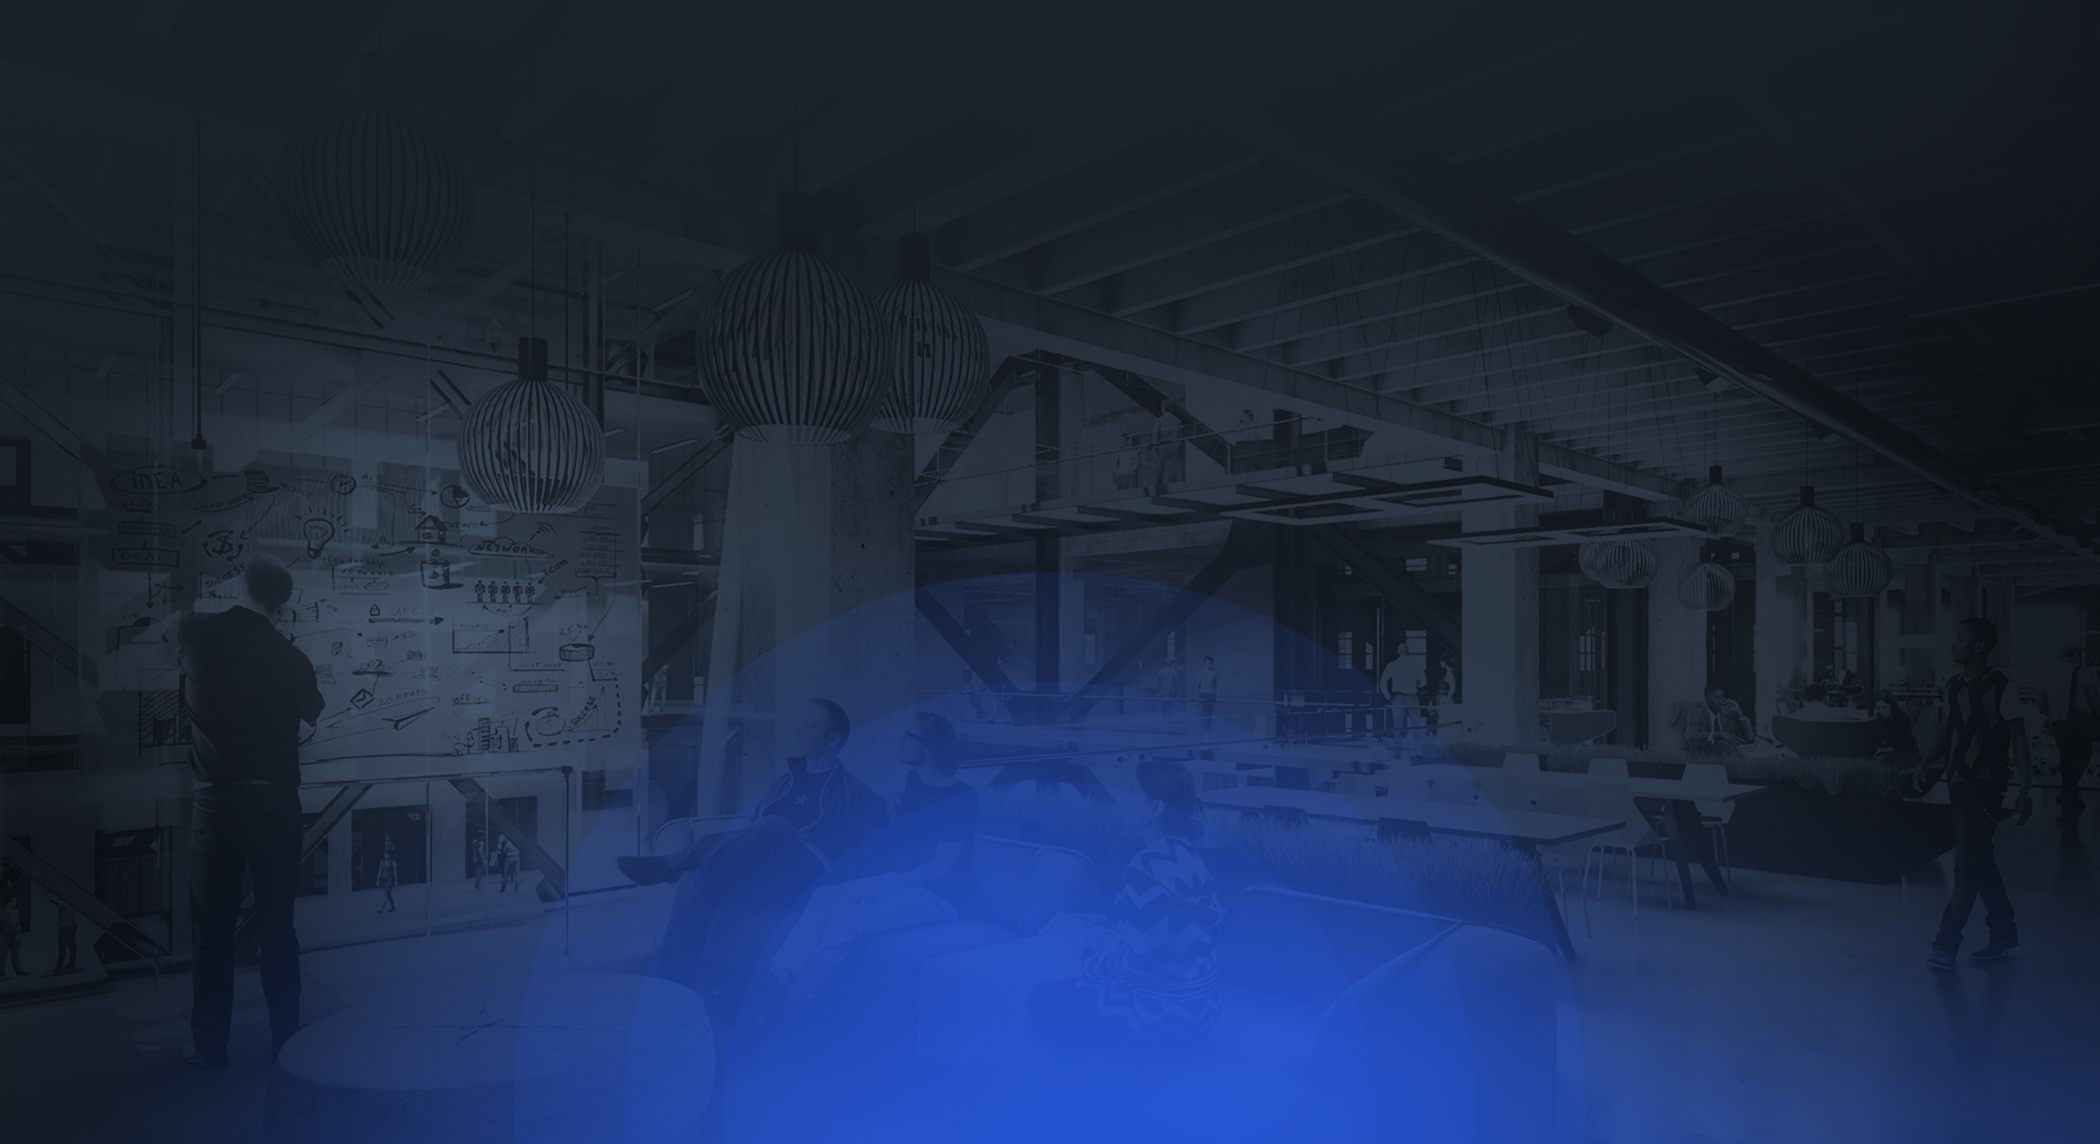
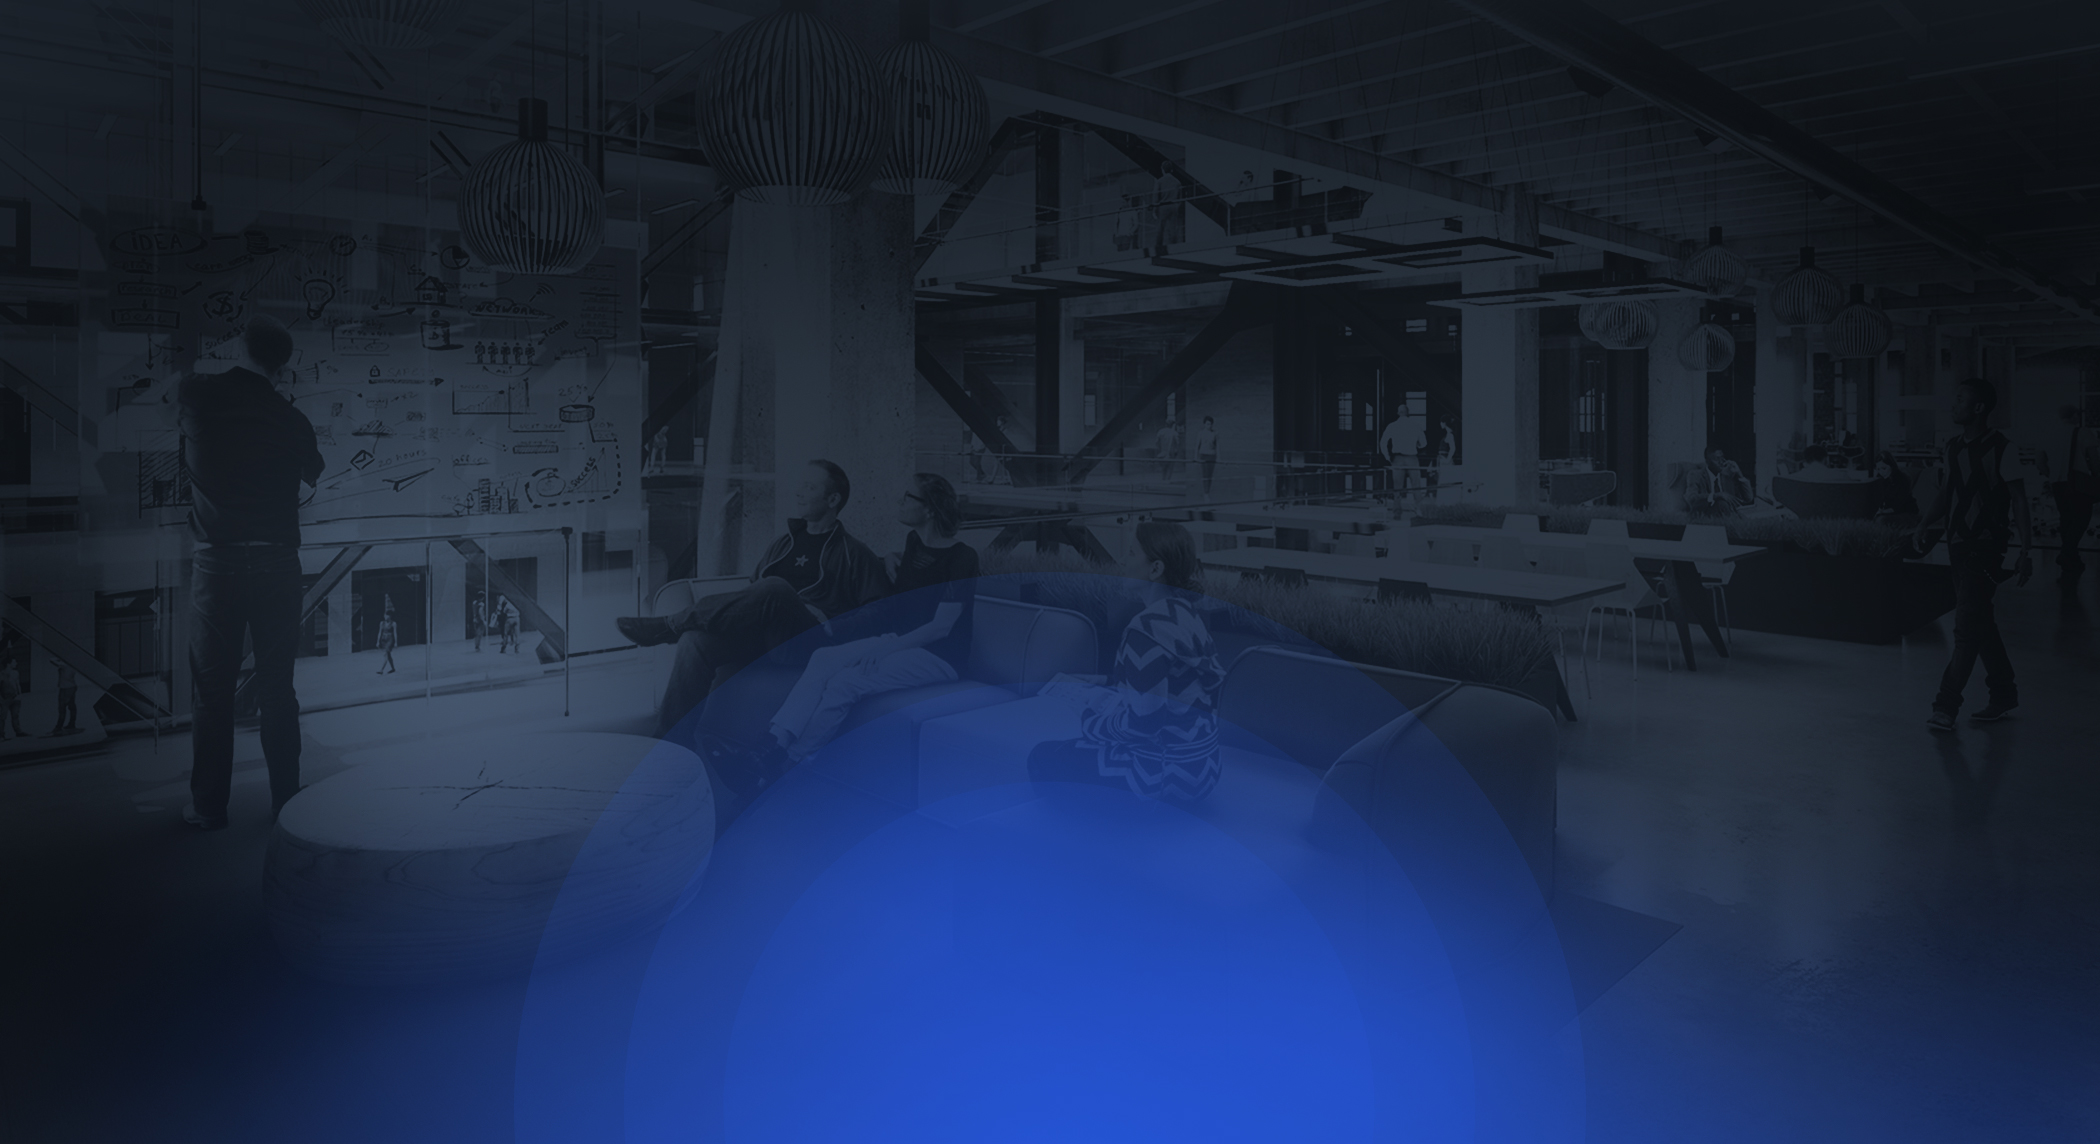
retours

diff --git a/src/_styles/main.scss b/src/_styles/main.scss
@@ -258,7 +258,7 @@ section {
   17% {
     opacity: 1
   }
-  25% {
+  40% {
     opacity: 0
   }
   100% {
